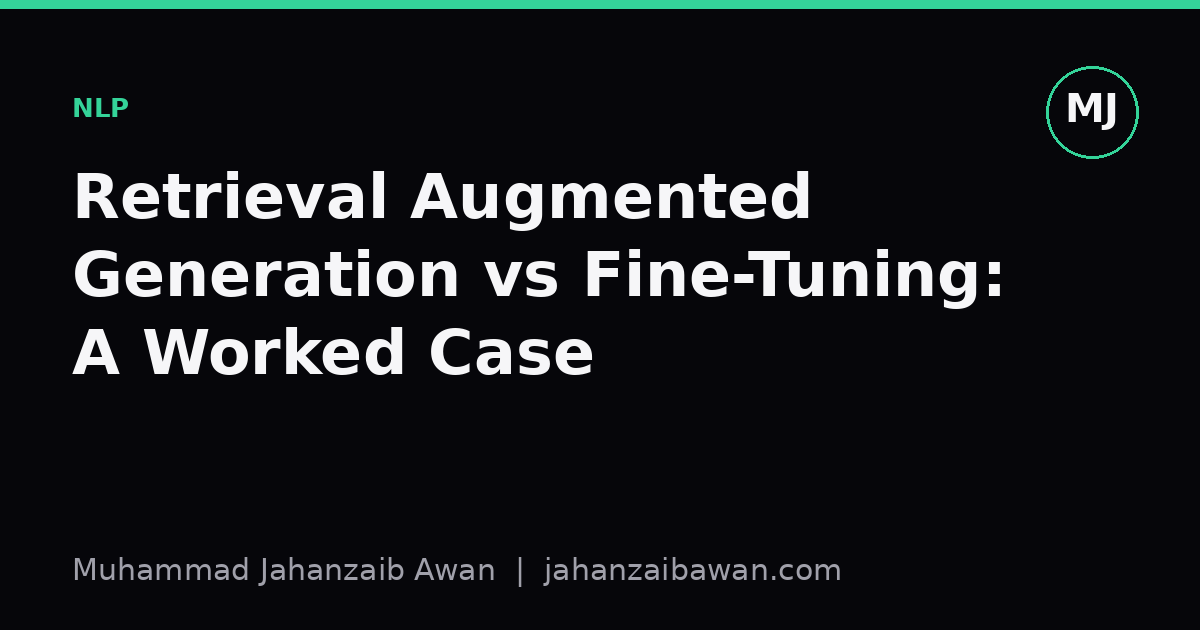
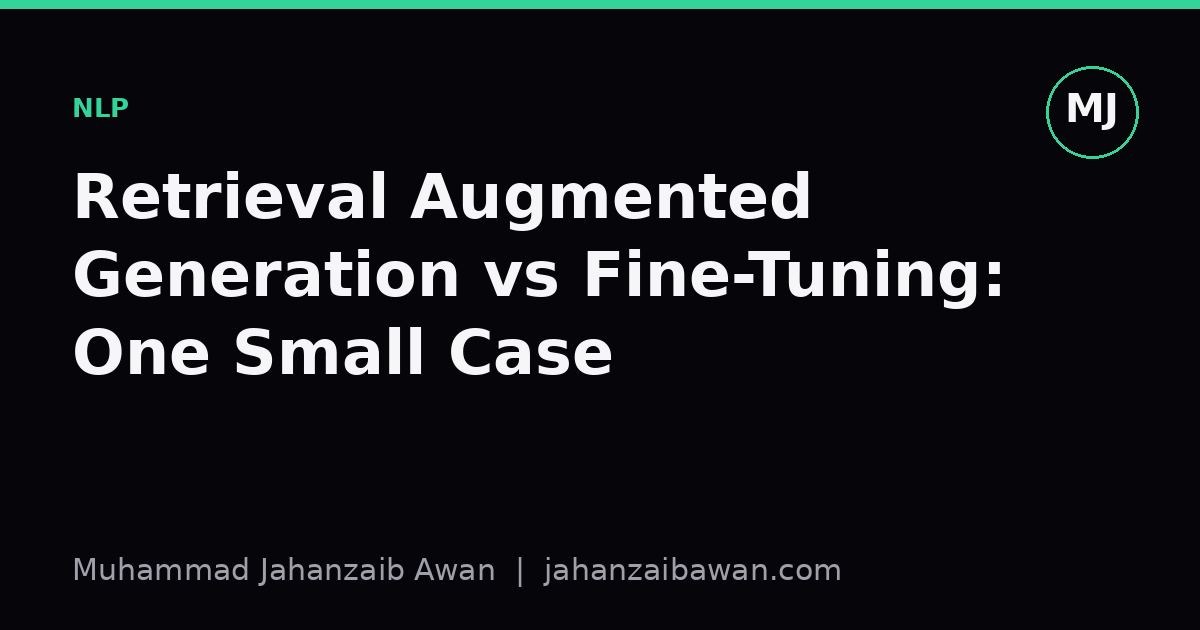
chore: auto blog post (2026-11-02)

Changed region(s): [[0.0617, 0.5127, 0.5242, 0.6032]]

diff --git a/blog/rag-versus-fine-tuning-small-kb.html b/blog/rag-versus-fine-tuning-small-kb.html
@@ -3,21 +3,21 @@
 <head>
 <meta charset="UTF-8">
 <meta name="viewport" content="width=device-width, initial-scale=1.0">
-<title>Retrieval Augmented Generation vs Fine-Tuning: A Worked Case | Muhammad Jahanzaib Awan</title>
-<meta name="description" content="A worked decision between retrieval augmented generation and fine-tuning for a small knowledge base, with concrete numbers and practical trade-offs.">
+<title>Retrieval Augmented Generation vs Fine-Tuning: One Small Case | Muhammad Jahanzaib Awan</title>
+<meta name="description" content="A worked comparison of retrieval augmented generation and fine-tuning for a small knowledge base, with concrete numbers and a practical decision rule.">
 <meta name="author" content="Muhammad Jahanzaib Awan">
-<meta name="keywords" content="retrieval augmented generation, fine-tuning, small knowledge base, LLM evaluation, vector search, model updating, RAG pipeline, practical NLP, Jahanzaib, Jahanzaib Awan, Muhammad Jahanzaib, Muhammad Jahanzaib Awan">
+<meta name="keywords" content="retrieval augmented generation, fine-tuning, knowledge base, LLM evaluation, embeddings, document retrieval, model updates, leakage-aware evaluation, Jahanzaib, Jahanzaib Awan, Muhammad Jahanzaib, Muhammad Jahanzaib Awan">
 <meta name="robots" content="index, follow, max-image-preview:large, max-snippet:-1">
 <meta property="og:type" content="article">
 <meta property="article:published_time" content="2026-11-02">
 <meta property="og:site_name" content="Muhammad Jahanzaib Awan">
-<meta property="og:title" content="Retrieval Augmented Generation vs Fine-Tuning: A Worked Case">
-<meta property="og:description" content="A worked decision between retrieval augmented generation and fine-tuning for a small knowledge base, with concrete numbers and practical trade-offs.">
+<meta property="og:title" content="Retrieval Augmented Generation vs Fine-Tuning: One Small Case">
+<meta property="og:description" content="A worked comparison of retrieval augmented generation and fine-tuning for a small knowledge base, with concrete numbers and a practical decision rule.">
 <meta property="og:image" content="https://jahanzaibawan.com/assets/blog/rag-versus-fine-tuning-small-kb.png">
 <meta property="og:url" content="https://jahanzaibawan.com/blog/rag-versus-fine-tuning-small-kb.html">
 <meta property="og:locale" content="en_GB">
 <meta name="twitter:card" content="summary_large_image">
-<meta name="twitter:title" content="Retrieval Augmented Generation vs Fine-Tuning: A Worked Case">
+<meta name="twitter:title" content="Retrieval Augmented Generation vs Fine-Tuning: One Small Case">
 <meta name="twitter:image" content="https://jahanzaibawan.com/assets/blog/rag-versus-fine-tuning-small-kb.png">
 <link rel="canonical" href="https://jahanzaibawan.com/blog/rag-versus-fine-tuning-small-kb.html">
 <link rel="alternate" type="application/rss+xml" title="Muhammad Jahanzaib Awan — Writing" href="https://jahanzaibawan.com/feed.xml">
@@ -29,8 +29,8 @@
 {
   "@context": "https://schema.org",
   "@type": "BlogPosting",
-  "headline": "Retrieval Augmented Generation vs Fine-Tuning: A Worked Case",
-  "description": "A worked decision between retrieval augmented generation and fine-tuning for a small knowledge base, with concrete numbers and practical trade-offs.",
+  "headline": "Retrieval Augmented Generation vs Fine-Tuning: One Small Case",
+  "description": "A worked comparison of retrieval augmented generation and fine-tuning for a small knowledge base, with concrete numbers and a practical decision rule.",
   "url": "https://jahanzaibawan.com/blog/rag-versus-fine-tuning-small-kb.html",
   "image": "https://jahanzaibawan.com/assets/blog/rag-versus-fine-tuning-small-kb.png",
   "datePublished": "2026-11-02",
@@ -49,7 +49,7 @@
   "itemListElement": [
     { "@type": "ListItem", "position": 1, "name": "Home", "item": "https://jahanzaibawan.com/" },
     { "@type": "ListItem", "position": 2, "name": "Writing", "item": "https://jahanzaibawan.com/blog.html" },
-    { "@type": "ListItem", "position": 3, "name": "Retrieval Augmented Generation vs Fine-Tuning: A Worked Case", "item": "https://jahanzaibawan.com/blog/rag-versus-fine-tuning-small-kb.html" }
+    { "@type": "ListItem", "position": 3, "name": "Retrieval Augmented Generation vs Fine-Tuning: One Small Case", "item": "https://jahanzaibawan.com/blog/rag-versus-fine-tuning-small-kb.html" }
   ]
 }
 </script>
@@ -63,13 +63,13 @@
   <div class="phero">
     <a class="back" href="../blog.html">← All writing</a>
     <div class="tag">NLP · 5 min read · 2 Nov 2026</div>
-    <h1>Retrieval Augmented Generation vs Fine-Tuning: A Worked Case</h1>
-    <p class="lede">When you only have a few hundred documents, the choice between retrieval and retraining is not philosophical, it is arithmetic. Here is how I worked through one.</p>
+    <h1>Retrieval Augmented Generation vs Fine-Tuning: One Small Case</h1>
+    <p class="lede">A worked decision for a small knowledge base: when retrieval beats weight updates, and why the honest answer depends on how often your facts change.</p>
   </div>
 
-  <img src="../assets/blog/rag-versus-fine-tuning-small-kb.png" alt="Cover image for the article: Retrieval Augmented Generation vs Fine-Tuning: A Worked Case" style="width:100%;height:auto;border-radius:14px;border:1px solid var(--line2);margin:6px 0 20px;display:block">
+  <img src="../assets/blog/rag-versus-fine-tuning-small-kb.png" alt="Cover image for the article: Retrieval Augmented Generation vs Fine-Tuning: One Small Case" style="width:100%;height:auto;border-radius:14px;border:1px solid var(--line2);margin:6px 0 20px;display:block">
 
-<section class='psec reveal'><h2>The question that actually needs answering</h2><p>Every time someone asks whether to use retrieval augmented generation or fine-tuning, the honest answer is that it depends on the shape of the problem, and most people skip the shape and jump to the tool they already like. I want to work through one concrete scenario instead of giving a general lecture, because the trade-offs only become clear when you attach numbers to them.</p><p>Suppose the knowledge base is three hundred internal documents, perhaps policy pages and product specifications, totalling around two hundred thousand words. The documents change a few times a month. The task is answering employee questions accurately, with the ability to point to a source. That last requirement matters more than it first appears, and I will come back to it.</p><p>Fine-tuning here means taking a base language model and continuing training on examples derived from this corpus, usually question and answer pairs synthesised from the documents or hand written by someone who knows them. Retrieval augmented generation means leaving the base model alone and instead searching the document set at query time, then stuffing the most relevant passages into the prompt before generation. Both approaches can produce a system that answers questions. The decision is about cost, maintenance, and failure mode, not about which one is cleverer.</p></section><section class='psec reveal'><h2>Working the numbers on freshness and volume</h2><p>Two hundred thousand words is a small corpus by any standard. Fine-tuning works best when there is enough signal to shift the model's weights meaningfully without overfitting to a handful of examples, and small corpora make that hard. If I generate, say, four hundred question and answer pairs from three hundred documents, I am training on an average of little more than one question per document. A model fine-tuned on that volume tends to memorise phrasing rather than learn general patterns, and it will often answer confidently and wrongly when asked something slightly off the training distribution. That is the worst failure mode for a knowledge base tool, because it looks authoritative while being unreliable.</p><p>Now consider the update cadence. If the documents change a few times a month, a fine-tuned model is stale the moment any source document changes, and it stays stale until someone notices, regenerates training pairs, retrains, evaluates, and redeploys. Even a lightweight fine-tuning cycle, done carefully with held-out validation and leakage checks between training and test questions, realistically takes a day or two of someone's attention each time. Over a year, if updates happen twice a month, that is twenty four retraining cycles. Compare that with retrieval augmented generation, where updating the knowledge base means re-indexing the changed documents, which for three hundred documents takes minutes and can often be automated to run on every save.</p><p>The arithmetic is not subtle. For a corpus this size and this update frequency, the maintenance burden of fine-tuning dwarfs the maintenance burden of retrieval. Fine-tuning starts to look more attractive only when the corpus is large enough to support genuine generalisation, or when updates are rare enough that the retraining cost is amortised over a long stable period, say a knowledge base that changes once a year rather than twice a month.</p></section><figure style='margin:24px 0'><img src='../assets/blog/body/rag-versus-fine-tuning-small-kb-1.jpg' alt='server room document archive' loading='lazy' style='width:100%;height:auto;border-radius:12px;border:1px solid var(--line2);display:block'></figure><section class='psec reveal'><h2>What each approach actually buys you</h2><p>There is a feature of retrieval augmented generation that often gets underweighted in these comparisons, which is that it gives you provenance almost for free. If the system retrieves three passages and generates an answer grounded in them, you can show the employee which passages were used, and they can check the source themselves. This matters enormously for trust, and it matters for debugging. When the system gets something wrong, you can inspect whether the retrieval step pulled the right passage or whether the generation step misread a correct passage, which tells you precisely where to intervene.</p><p>Fine-tuning gives you no such trail. If a fine-tuned model answers incorrectly, you cannot point to the specific training example responsible, because the error is distributed across millions of weight updates. Debugging becomes a matter of adding more training examples and hoping the behaviour shifts in the right direction, which is a much blunter instrument than fixing a retrieval index.</p><p>What fine-tuning does buy you is speed and consistency of style at inference time, since there is no retrieval step and no risk of pulling an irrelevant passage into the prompt. It also helps when the task is less about facts and more about tone or format, for instance teaching a model to always respond in a particular structure. For a knowledge base question answering task where the facts are the entire point, that benefit is largely irrelevant, and the cost of losing provenance and flexibility is not worth paying.</p><p>It is worth being honest about retrieval's own weaknesses too. A retrieval system is only as good as its index and its ranking, and with only three hundred documents it is tempting to assume retrieval will be trivially accurate. It will not be, if the documents use inconsistent terminology or if the embedding model was not evaluated on this specific corpus. I would still want a held-out set of realistic questions with known correct source documents, used purely to check retrieval precision before trusting the pipeline, rather than assuming a popular embedding model will just work.</p></section><section class='psec reveal'><h2>The practical takeaway</h2><p>For this specific scenario, a small, frequently changing corpus where traceability matters, retrieval augmented generation is the clear choice, and the decision was never close once the numbers were laid out. The crossover point towards fine-tuning arrives with scale and stability: a corpus large enough to generalise from, and a change frequency low enough that retraining cost is amortised rather than constant.</p><p>The general lesson travels further than this one example. Before picking a technique, write down the corpus size, the update frequency, and whether provenance matters, then estimate the retraining cost against the re-indexing cost in concrete hours or days. The decision usually makes itself once those three numbers are on the page, and most disagreements about RAG versus fine-tuning turn out to be disagreements about which numbers to assume rather than disagreements about the techniques themselves.</p></section><figure style='margin:24px 0'><img src='../assets/blog/body/rag-versus-fine-tuning-small-kb-2.jpg' alt='person searching filing cabinet documents' loading='lazy' style='width:100%;height:auto;border-radius:12px;border:1px solid var(--line2);display:block'></figure>
+<section class='psec reveal'><h2>The question people ask backwards</h2><p>Whenever someone has a pile of documents and wants a language model to answer questions about them, the first question is usually 'should I fine-tune or use RAG'. I think this is the wrong order. The right first question is: how often does the underlying information change, and how many documents are we actually talking about. Everything else follows from that.</p><p>Here is a concrete scenario I like to use when thinking this through. Suppose you have an internal knowledge base of three hundred documents, perhaps policy pages, product specs and FAQs, totalling around four hundred thousand words. New documents are added roughly twice a month, and existing ones get edited more often than that, maybe weekly, as prices or terms shift. You want a model that can answer staff questions accurately and, ideally, tell you where an answer came from.</p><p>Fine-tuning here means taking a base model and further training it on examples derived from this knowledge base, so the facts get baked into the weights. RAG means leaving the base model alone and instead retrieving relevant passages at query time, then feeding them into the prompt alongside the question. Both can work. The decision is about cost, freshness and the kind of errors you can tolerate.</p></section><section class='psec reveal'><h2>Working through the numbers</h2><p>Four hundred thousand words is small by training standards, probably a few million tokens once you account for formatting. Fine-tuning a model on that volume is cheap in raw compute terms, but the problem is not the training run, it is the maintenance. If documents change weekly, you either retrain weekly, which is wasteful and risks subtle regressions each time, or you accept that the model is answering with stale facts for days or weeks at a stretch. For a knowledge base about, say, internal expense policy, a stale answer is not a minor inconvenience, it is actively wrong and someone might act on it.</p><p>RAG sidesteps this because the facts never live in the weights. You update the document store, and the very next query against that document reflects the change. There is no retraining step at all. For a knowledge base this size, building a retrieval index is almost trivial: embed each document chunk, perhaps three hundred to five hundred tokens per chunk, store the vectors, and do nearest-neighbour search at query time. With three hundred documents you might end up with two thousand chunks, which is nothing for any vector search setup, even a brute-force one.</p><p>The other number worth sitting with is evaluation cost. If you fine-tune, you need a held-out set of question-answer pairs that were not used to generate training examples, and you need to re-run that evaluation after every retraining cycle to check for regressions, including on topics you did not intend to touch. That evaluation burden recurs every time the documents change meaningfully. With RAG, the retrieval component and the generation component can largely be evaluated once and then monitored more cheaply, since the base model itself is not moving.</p></section><figure style='margin:24px 0'><img src='../assets/blog/body/rag-versus-fine-tuning-small-kb-1.jpg' alt='server room document storage' loading='lazy' style='width:100%;height:auto;border-radius:12px;border:1px solid var(--line2);display:block'></figure><section class='psec reveal'><h2>Where fine-tuning actually wins</h2><p>I do not think RAG is simply better in general, and it would be dishonest to pretend otherwise. Fine-tuning wins when the thing you need to change is not facts but behaviour: tone, format, the way the model structures an answer, or domain-specific reasoning patterns that are hard to convey through retrieved context alone. If your three hundred documents are mostly used to teach the model a particular style of technical explanation, rather than to supply facts that need to stay current, fine-tuning on examples of that style can produce more consistent output than stuffing style instructions into every prompt.</p><p>Fine-tuning also wins when retrieval quality is the real bottleneck. If your documents are short, overlapping, or poorly structured, a retriever might pull back the wrong chunk even when the right answer exists somewhere in the collection. In that case, no amount of generation quality fixes a retrieval failure, and sometimes it is more productive to bake the small, stable core of facts directly into the model and treat retrieval as a secondary safety net rather than the primary mechanism.</p><p>There is also a latency and infrastructure argument. RAG means running an embedding model and a vector search at inference time, on top of the generation call. For a small knowledge base this overhead is modest, typically tens of milliseconds, but it is not zero, and it is one more system that can fail or drift. A fine-tuned model that already contains the facts needs nothing extra at inference time beyond the usual generation call, which matters if you are deploying somewhere with tight latency budgets or limited infrastructure.</p></section><section class='psec reveal'><h2>The decision rule I actually use</h2><p>For this particular scenario, three hundred documents with weekly edits, I would choose RAG, and I think most people in a similar position should default the same way. The update frequency is the deciding factor: anything that changes more often than your retraining cycle comfortably allows is a strong signal for retrieval. Fine-tuning becomes attractive once the underlying facts are genuinely stable for months at a time, or once the problem is clearly about behaviour and style rather than content.</p><p>In practice the two are not mutually exclusive. A reasonable middle path is to fine-tune lightly for the answer format and tone you want, then retrieve for the facts themselves, so the model is not learning content it cannot keep current, but is learning how to present retrieved material consistently. Whatever you choose, test it the same honest way: build an evaluation set that was not involved in choosing chunks or writing training examples, check performance separately on frequently changing topics versus stable ones, and be suspicious of any result that looks too clean before you have tried to break it.</p></section><figure style='margin:24px 0'><img src='../assets/blog/body/rag-versus-fine-tuning-small-kb-2.jpg' alt='person searching digital archive on laptop' loading='lazy' style='width:100%;height:auto;border-radius:12px;border:1px solid var(--line2);display:block'></figure>
 
   <div class="pnav">
     <a href="../blog.html">← All writing</a>

diff --git a/blog.html b/blog.html
@@ -36,7 +36,7 @@
   "author": { "@type": "Person", "name": "Muhammad Jahanzaib Awan", "url": "https://jahanzaibawan.com/" },
   "publisher": { "@type": "Person", "name": "Muhammad Jahanzaib Awan" },
   "blogPost": [
-    { "@type": "BlogPosting", "headline": "Retrieval Augmented Generation vs Fine-Tuning: A Worked Case", "url": "https://jahanzaibawan.com/blog/rag-versus-fine-tuning-small-kb.html", "datePublished": "2026-11-02", "author": { "@type": "Person", "@id": "https://jahanzaibawan.com/#person", "name": "Muhammad Jahanzaib Awan" } },
+    { "@type": "BlogPosting", "headline": "Retrieval Augmented Generation vs Fine-Tuning: One Small Case", "url": "https://jahanzaibawan.com/blog/rag-versus-fine-tuning-small-kb.html", "datePublished": "2026-11-02", "author": { "@type": "Person", "@id": "https://jahanzaibawan.com/#person", "name": "Muhammad Jahanzaib Awan" } },
     { "@type": "BlogPosting", "headline": "Deep Learning Versus Machine Learning: A Grounded Answer", "url": "https://jahanzaibawan.com/blog/deep-learning-vs-machine-learning.html", "datePublished": "2026-11-02", "author": { "@type": "Person", "@id": "https://jahanzaibawan.com/#person", "name": "Muhammad Jahanzaib Awan" } },
     { "@type": "BlogPosting", "headline": "Data Science Internships: Reading Between the Lines", "url": "https://jahanzaibawan.com/blog/data-science-internships-job-description.html", "datePublished": "2026-11-01", "author": { "@type": "Person", "@id": "https://jahanzaibawan.com/#person", "name": "Muhammad Jahanzaib Awan" } },
     { "@type": "BlogPosting", "headline": "Machine Learning Definitions: Where the Disagreements Matter", "url": "https://jahanzaibawan.com/blog/ml-definitions-textbook-disagreements.html", "datePublished": "2026-11-01", "author": { "@type": "Person", "@id": "https://jahanzaibawan.com/#person", "name": "Muhammad Jahanzaib Awan" } },
@@ -308,11 +308,11 @@
 <!--POSTS:START-->
     <a class="pcard reveal" href="blog/rag-versus-fine-tuning-small-kb.html" style="--hc:var(--a2)">
       <span class="spot"></span>
-      <div class="thumb"><img src="assets/blog/rag-versus-fine-tuning-small-kb.png" alt="Cover image for the article: Retrieval Augmented Generation vs Fine-Tuning: A Worked Case" loading="lazy"></div>
+      <div class="thumb"><img src="assets/blog/rag-versus-fine-tuning-small-kb.png" alt="Cover image for the article: Retrieval Augmented Generation vs Fine-Tuning: One Small Case" loading="lazy"></div>
       <div class="pc">
         <div class="tag">NLP · 5 min read</div>
-        <h3>Retrieval Augmented Generation vs Fine-Tuning: A Worked Case</h3>
-        <p>A concrete walkthrough of deciding between RAG and fine-tuning for a small knowledge base, with numbers, not vibes.</p>
+        <h3>Retrieval Augmented Generation vs Fine-Tuning: One Small Case</h3>
+        <p>A concrete walk-through comparing RAG and fine-tuning on a small knowledge base, with realistic numbers and a practical decision rule.</p>
         <span class="metric">2 Nov 2026</span>
         <span class="more">Read →</span>
       </div>
